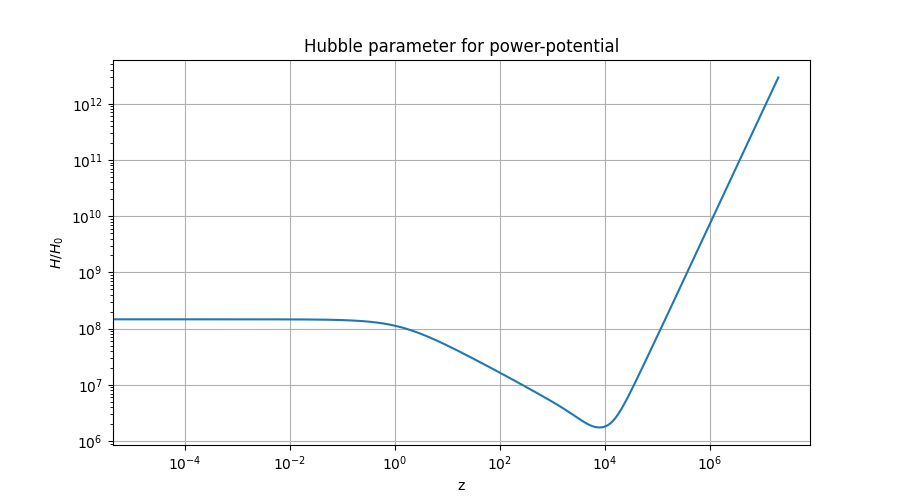
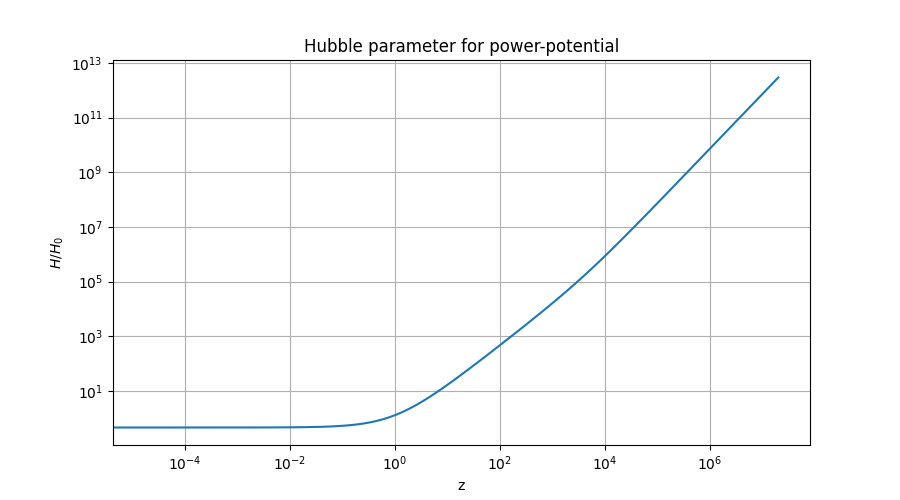
??

diff --git a/Projects/Project 1/Source-code/problem10.py b/Projects/Project 1/Source-code/problem10.py
@@ -7,22 +7,21 @@ from scipy.integrate import quad, cumulative_trapezoid
 from problem9 import density_parameters, eos_parameter
 from expressions import eos_integral_N
 
-# Parameters
-z_i = 2e7  # initia redshift
-z_f = 0  # final redshift
-n = 100  # number of points
-# z = np.linspace(z_i, z_f, n)
+# # Parameters
+# z_i = 2e7  # initia redshift
+# z_f = 0  # final redshift
+# n = 100  # number of points
+# # z = np.linspace(z_i, z_f, n)
 
 
-def hubble_parameter(V: str) -> float:
+def hubble_parameter(V: str) -> tuple[np.ndarray, np.ndarray]:
     """Returns the characteristic Hubble parameter H/H_0 as a function of the redshift z (eq. 7)
 
     arguments:
-        z: the redshift
         V: the potential function in ["power", "exponential"]
 
     returns:
-        the value of H/H_0 for the given redshift z
+        the values of H/H_0 for each z from the z-interval in problem 9
     """
     # Density parameters
     z, Omega_m, Omega_r, Omega_phi = density_parameters(V)
@@ -30,36 +29,48 @@ def hubble_parameter(V: str) -> float:
     Omega_r0 = Omega_r[-1]
     Omega_phi0 = Omega_phi[-1]
 
-
     # Eos parameter
-    # z, omega_phi = eos_parameter(V)
+    _, omega_phi = eos_parameter(V)
 
-    print(np.shape(Omega_m0), np.shape(z))
+    # print(np.shape(Omega_m0), np.shape(z))
 
     # Convert redshift z to characteristic time N
     N = np.log(1 / (1 + z))
+    # N = np.flip(np.log(1 / (1 + z)))
 
-    # return np.sqrt(
+    # print(z)
+    # print(N)
+    # print(omega_phi)
+    # quit()
+
+    # H = np.sqrt(
     #     Omega_m0 * (1 + z) ** 3
     #     + Omega_r0 * (1 + z) ** 4
     #     + Omega_phi0 * np.exp(quad(eos_integral_N, N, 0)[0])
     # )
+
     # print(Omega_m0 * (1 + z) ** 3)
-    return z, np.sqrt(
+    H = np.sqrt(
         Omega_m0 * (1 + z) ** 3
         + Omega_r0 * (1 + z) ** 4
-        + Omega_phi0 * np.exp(cumulative_trapezoid(N))
+        + Omega_phi0
+        # * np.exp(cumulative_trapezoid(eos_integral_N(N), N, initial=0))
+        # * np.exp(cumulative_trapezoid(eos_integral_N(omega_phi), N, initial=0))
+        * np.exp(cumulative_trapezoid(eos_integral_N(omega_phi), omega_phi, initial=0))
     )
+    return z, H
 
 
-def plot_hubble_parameter(V: str, filename=None, figsize=(9, 5), prnt=True) -> None:
+def plot_hubble_parameter(
+    V: str, filename: str = None, figsize: tuple[int, int] = (9, 5), prnt=True
+) -> None:
     """Plots the characteristic Hubble parameter H/H_0 as a function of the redshift z
 
     arguments:
         V: the potential function in ["power", "exponential"]
         filename: the name of the file to save the plot
         figsize: the size of the figure
-        prnt: if True, print the value of H/H_0 at z=0
+        prnt: if True, print the value of H/H_0 at the initla and final redshifts
 
     returns:
         None
@@ -88,6 +99,7 @@ def plot_hubble_parameter(V: str, filename=None, figsize=(9, 5), prnt=True) -> N
     plt.savefig(filename)
 
     if prnt:
+        print("z=, H/H_0=")
         print(z[-1], H[-1])
         print(z[0], H[0])
 
